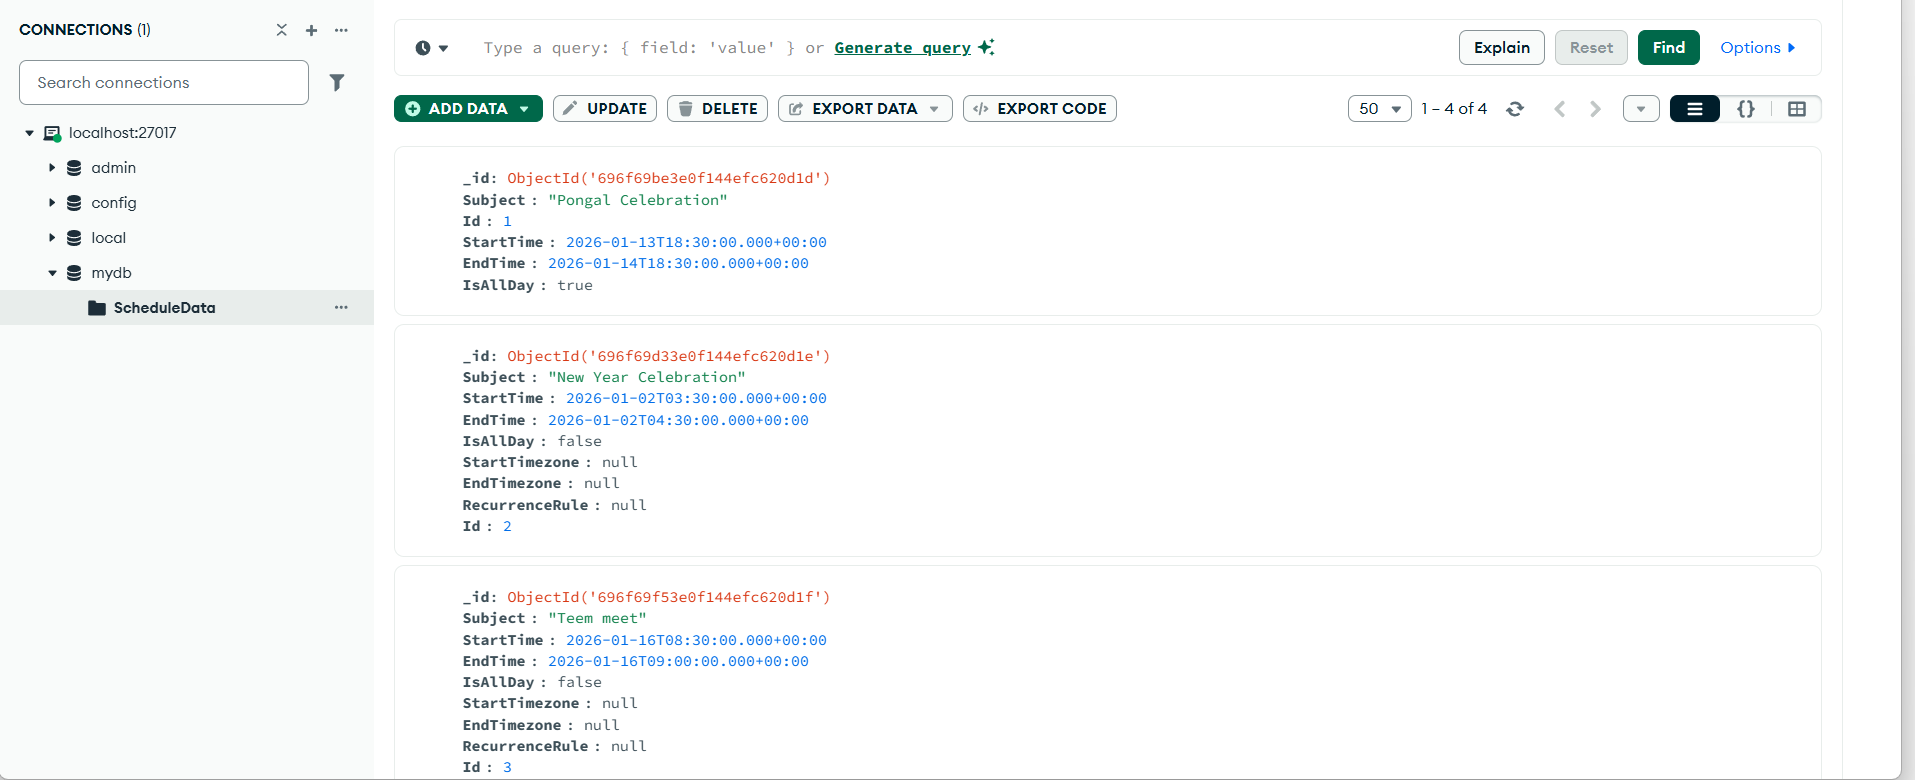
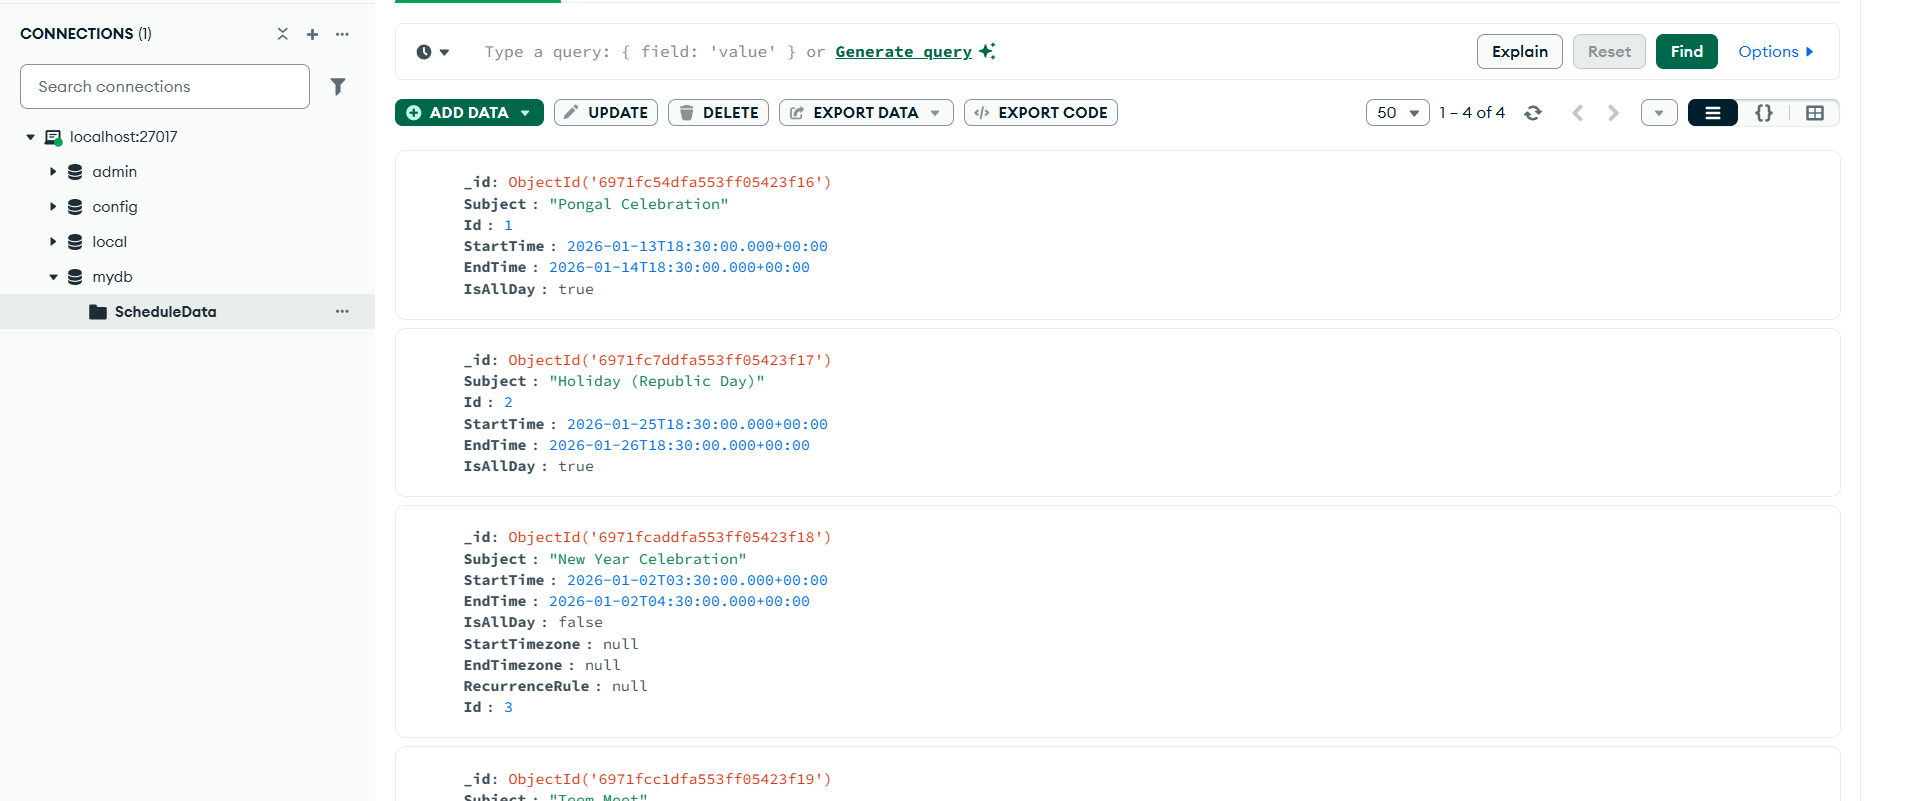
updated readme & sample outputs

diff --git a/README.md b/README.md
@@ -14,30 +14,12 @@ The backend provides REST API endpoints for managing calendar events, which are 
 
 <br />
 
-## Project Structure
-```
-├── public
-│     ├── index.html           
-├── server                     
-│     ├── server.js            
-├── src
-│     ├── App.css              
-│     ├── App.test.tsx
-│     ├── App.tsx
-│     ├── index.css
-│     ├── index.tsx
-│     ├── react-app-env.d.ts
-│     ├── serviceWorker.ts
-│     └── setupTest.ts
-├── package-lock.json
-├── package.json
-├── README.md                   
-└── tsconfig.json
-```
+## Setup
+- Clone the repository to your local machine.
 
 <br />
 
-## Backend Setup
+### Backend Setup
 
 #### <u> MongoDB </u>
 
@@ -45,18 +27,9 @@ The backend provides REST API endpoints for managing calendar events, which are 
 2. Create a Collection named `ScheduleData` in the above created database.
 3. Make sure this connection is in connected state in MongoDB Compass.
 
-#### <u> Available Endpoints </u>
-The Express server (`server.js`) exposes the following REST routes:
-| Method | URL                          | Description                         |
-| ------ | ---------------------------- | ----------------------------------- |
-| POST   | `/GetData`    | Fetch all the events |
-| POST   | `/BatchData`  | Insert/Update/Delete event                  |
-
 <br />
 
-## Frontend Setup
-
-#### <u> Installation </u>
+### Frontend Setup
 1. In a new terminal, navigate to the project folder:
 2. Install application dependencies:
     ```bash
@@ -65,13 +38,13 @@ The Express server (`server.js`) exposes the following REST routes:
 <br />
 
 ## Running the Application
-1. Navigate to the project folder.
+1. Open terminal, navigate to the project folder.
 2. Start the backend server:
     ```bash
     npm run server (runs the server.js file)
     ```
 3. Backend server started running on `http://localhost:5000`
-4. Start the frontend:
+4. Open another terminal from the same path, start the frontend:
     ```bash
     npm start
     ```
@@ -95,270 +68,7 @@ The Express server (`server.js`) exposes the following REST routes:
 - **CORS errors**: Ensure the frontend running on `localhost:3000`.
 
 <br />
-<br />
-<br />
-<br />
-
-# Creating a MERN (MongoDB, Express, React, Node) Application Using Syncfusion® React Scheduler Component
-
-## Prerequisites
-- Use Node Version >= 20.19.0 (for better performance with MongoDB driver 7.0)
-- Use Latest MongoDB Software.
-- Make sure there is nothing running on the ports 5000, 5174.
-
-<br />
-
-## Database Setup
-
-#### <u> MongoDB </u>
-
-1. Download the mongoDB software from the below given link.
-    - https://www.mongodb.com/try/download/community
-2. Open MongoDB Compass, Create a Database in the connection
-3. Create a Collection inside the above created database.
-4. Make sure this connection is in connected state in MongoDB Compass.
-
-<br />
-
-## Application Setup
-
-#### <u> React </u>
-
-1. To create new React Application, run the following command
-    - To create React & choose Typescript manually 
-        ```bash
-        npm create vite@latest my-app
-        ```
-        Or
-    - To create React Application with Typescript using template
-        ```bash
-        npm create vite@latest my-app -- --template react-ts
-        cd my-app
-        npm run dev
-        ```
-
-2. Adding Syncfusion packages 
-    ```bash
-        npm install @syncfusion/ej2-react-schedule --save
-    ```
-
-3. Adding css references in `src/App.css`
-    - Option 1 -  Adding individual references 
-        ```bash
-        @import "../node_modules/@syncfusion/ej2-base/styles/material.css";
-        @import "../node_modules/@syncfusion/ej2-buttons/styles/material.css";
-        @import "../node_modules/@syncfusion/ej2-calendars/styles/material.css";
-        @import "../node_modules/@syncfusion/ej2-dropdowns/styles/material.css";
-        @import "../node_modules/@syncfusion/ej2-inputs/styles/material.css";
-        @import "../node_modules/@syncfusion/ej2-lists/styles/material.css";
-        @import "../node_modules/@syncfusion/ej2-navigations/styles/material.css";
-        @import "../node_modules/@syncfusion/ej2-popups/styles/material.css";
-        @import "../node_modules/@syncfusion/ej2-splitbuttons/styles/material.css";
-        @import "../node_modules/@syncfusion/ej2-react-schedule/styles/material.css";
-        ```
-        Or
-    - Option 2 - If you want to use combined css files, then use the following code
-        ```bash
-        @import '../../node_modules/@syncfusion/ej2/material.css';
-        ```
-    2. Import the `App.css` file in the `App.tsx` file. 
-
-4. **<u>Server Setup</u>**
-    1. Create a separate folder `server` for server file(`server.js`) inside the `my-app/`.
-    2. From this root folder `my-app/`, run the following commands to install the needed packages for the communication between frontend and backend
-        ```bash
-            npm install mongodb
-        ``` 
-        ```bash
-            npm install express
-        ```  
-        ```bash
-            npm install cors
-        ``` 
-    3. Using Express create API Endpoints and functionalities as per our need and make communication with the DB using MongoClient    
-        For your reference
-        ```bash
-        var MongoClient = require('mongodb').MongoClient;
-        var express = require('express');
-        var cors = require('cors');
-        var app = express();
-        var url = "mongodb://localhost:27017/";
-
-        app.use(express.json());
-        app.use(express.urlencoded({ extended: false }));
-
-        // Put CORS BEFORE any routes
-        app.use(cors({
-            origin: 'http://localhost:5174', // your React dev server
-            methods: ['GET', 'POST', 'PUT', 'PATCH', 'DELETE', 'OPTIONS'],
-            allowedHeaders: ['Content-Type', 'Authorization'],
-            credentials: false // set to true ONLY if you use cookies/Authorization with cross-origin
-        }));
-
-        app.use(express.static(__dirname));
-        app.listen(5000, function () { console.log('listening on 5000'); });
-
-        (async () => {
-            try {
-                const client = new MongoClient(url);
-                await client.connect();
-                const dbo = client.db('mydb');
-
-                app.post("/GetData", async function (req, res) {
-                    try {
-                        const cus = await dbo.collection('ScheduleData').find({}).toArray();
-                        res.json(cus);
-                    } catch (err) {
-                        res.status(500).json({ error: 'DB error', details: err.message });
-                    }
-                });
-
-                app.post("/BatchData", async function (req, res) {
-                    try {
-                        let eventData = [];
-                        if (req.body.action === "insert" || (req.body.action === "batch" && req.body.added && req.body.added.length > 0)) {
-                            (req.body.action === "insert") ? eventData.push(req.body.value) : eventData = req.body.added;
-                            for (let a = 0; a < eventData.length; a++) {
-                                eventData[a].StartTime = new Date(eventData[a].StartTime);
-                                eventData[a].EndTime = new Date(eventData[a].EndTime);
-                                await dbo.collection('ScheduleData').insertOne(eventData[a]);
-                            }
-                        }
-                        if (req.body.action === "update" || (req.body.action === "batch" && req.body.changed && req.body.changed.length > 0)) {
-                            (req.body.action === "update") ? eventData.push(req.body.value) : eventData = req.body.changed;
-                            for (let b = 0; b < eventData.length; b++) {
-                                delete eventData[b]._id;
-                                eventData[b].StartTime = new Date(eventData[b].StartTime);
-                                eventData[b].EndTime = new Date(eventData[b].EndTime);
-                                await dbo.collection('ScheduleData').updateOne({ "Id": eventData[b].Id }, { $set: eventData[b] });
-                            }
-                        }
-                        if (req.body.action === "remove" || (req.body.action === "batch" && req.body.deleted && req.body.deleted.length > 0)) {
-                            (req.body.action === "remove") ? eventData.push({ Id: req.body.key }) : eventData = req.body.deleted;
-                            for (let c = 0; c < eventData.length; c++) {
-                                await dbo.collection('ScheduleData').deleteOne({ "Id": eventData[c].Id });
-                            }
-                        }
-                        res.json(req.body);
-                    } catch (err) {
-                        res.status(500).json({ error: 'DB error', details: err.message });
-                    }
-                });
-
-                // Optional: handle SIGINT to close client
-                process.on('SIGINT', async () => {
-                    await client.close();
-                    process.exit(0);
-                });
-
-            } catch (err) {
-                console.error('Mongo connection failed:', err);
-                process.exit(1);
-            }
-        })();
-        ```
-        - Configures CORS to allow the React frontend (localhost:5174) to communicate with the Express backend.
-        - Endpoints
-            1. POST /GetData – Retrieves all schedule records from the MongoDB ScheduleData collection.
-            2. POST /BatchData – Handles insert, update, and delete operations on schedule events based on the incoming request action.                |
-        - Here Database name is `mydb` and Collection name is `ScheduleData`
-
-    4. Add the following lines in the `package.json`
-        ```bash
-        "scripts": {
-            "start": "vite",
-            "server": "node ./server/server.js"
-        }
-        ``` 
-    5. Make sure the address, database name, collection name are must be same as in DB created in Backend Setup.
-
-5. Render the Syncfusion Schedule component as per the need. Refer the below link.
-    - https://ej2.syncfusion.com/react/documentation/schedule/getting-started?cs-save-lang=1&cs-lang=ts#initialize-the-schedule
-    
-    - For your reference
-        ```bash
-        import React from 'react';
-        import { DataManager, UrlAdaptor } from '@syncfusion/ej2-data';
-        import { ScheduleComponent, ViewsDirective, ViewDirective, Day, Week, WorkWeek, Month, Agenda, Inject } from '@syncfusion/ej2-react-schedule';
-        import './App.css';
-
-        export default class App extends React.Component<{}, {}> {
-        public scheduleObj: ScheduleComponent = new ScheduleComponent({});
-        private dataManager: DataManager = new DataManager({
-            url: 'http://localhost:5000/GetData',
-            crudUrl: 'http://localhost:5000/BatchData',
-            adaptor: new UrlAdaptor(),
-            crossDomain: true
-        });
-
-            public render() {
-                return (
-                
-                <div className="control-section">
-                    <div className="schedule-control">
-                    <ScheduleComponent 
-                    id="schedule" 
-                    ref={(schedule: ScheduleComponent | null) => { 
-                        this.scheduleObj = schedule!;
-                        }}
-                    height="550px"
-                    selectedDate={new Date(2026, 0, 1)} 
-                    currentView="Month" 
-                    eventSettings={ {dataSource: this.dataManager }}>
-                        <ViewsDirective>
-                        <ViewDirective option="Day" />
-                        <ViewDirective option="Week" />
-                        <ViewDirective option="WorkWeek" />
-                        <ViewDirective option="Month" />
-                        <ViewDirective option="Agenda" />
-                        </ViewsDirective>
-                        <Inject services={[Day, Week, WorkWeek, Month, Agenda]} />
-                    </ScheduleComponent>
-                    </div>
-                </div>
-                );
-            }
-        }
-        ```
-        - Getting & Inserting Events done through the DataManager
-        - Frontend calls the backend API using http://localhost:5000/GetData to fetch all schedule data from the server
-        - Frontend uses http://localhost:5000/BatchData as the CRUD endpoint to add, update, or delete schedule events on the backend.
-
-<br />
-
-## Running the Application
-1. Navigate to the project folder `my-app/`.
-2. Start the backend server:
-    ```bash
-    npm run server (runs the server.js file)
-    ```
-3. Backend server started running on `http://localhost:5000`
-4. Start the frontend:
-    ```bash
-    npm start
-    ```
-    Or
-    ```bash
-    npm run dev
-    ```
-5. Navigate to [http://localhost:5174](http://localhost:5174) in your browser.<br />
-    The page will reload if you make edits.<br />
-    You will also see any lint errors in the console.
-
-<br />
-
-## Troubleshooting
-- **ReferenceError: require is not defined in ES module scope**: Remove {"type":"module"} from the package.json file (to maintain the code as CommonJS module format)
-- **404 PageNotFound**: Ensure the backend server running on `localhost:5000`.
-- **CORS errors**: Ensure the frontend running on `localhost:5174`.
-
-<br />
-<br />
-<br />
-<br />
 
 # Learn More
 
-To learn more about Syncfusion React Scheduler [Syncfusion Documentation](https://ej2.syncfusion.com/react/documentation/schedule/getting-started).
-
-
+To learn more about integrating Syncfusion React Scheduler [Syncfusion Documentation](https://ej2.syncfusion.com/react/documentation/schedule/getting-started).
